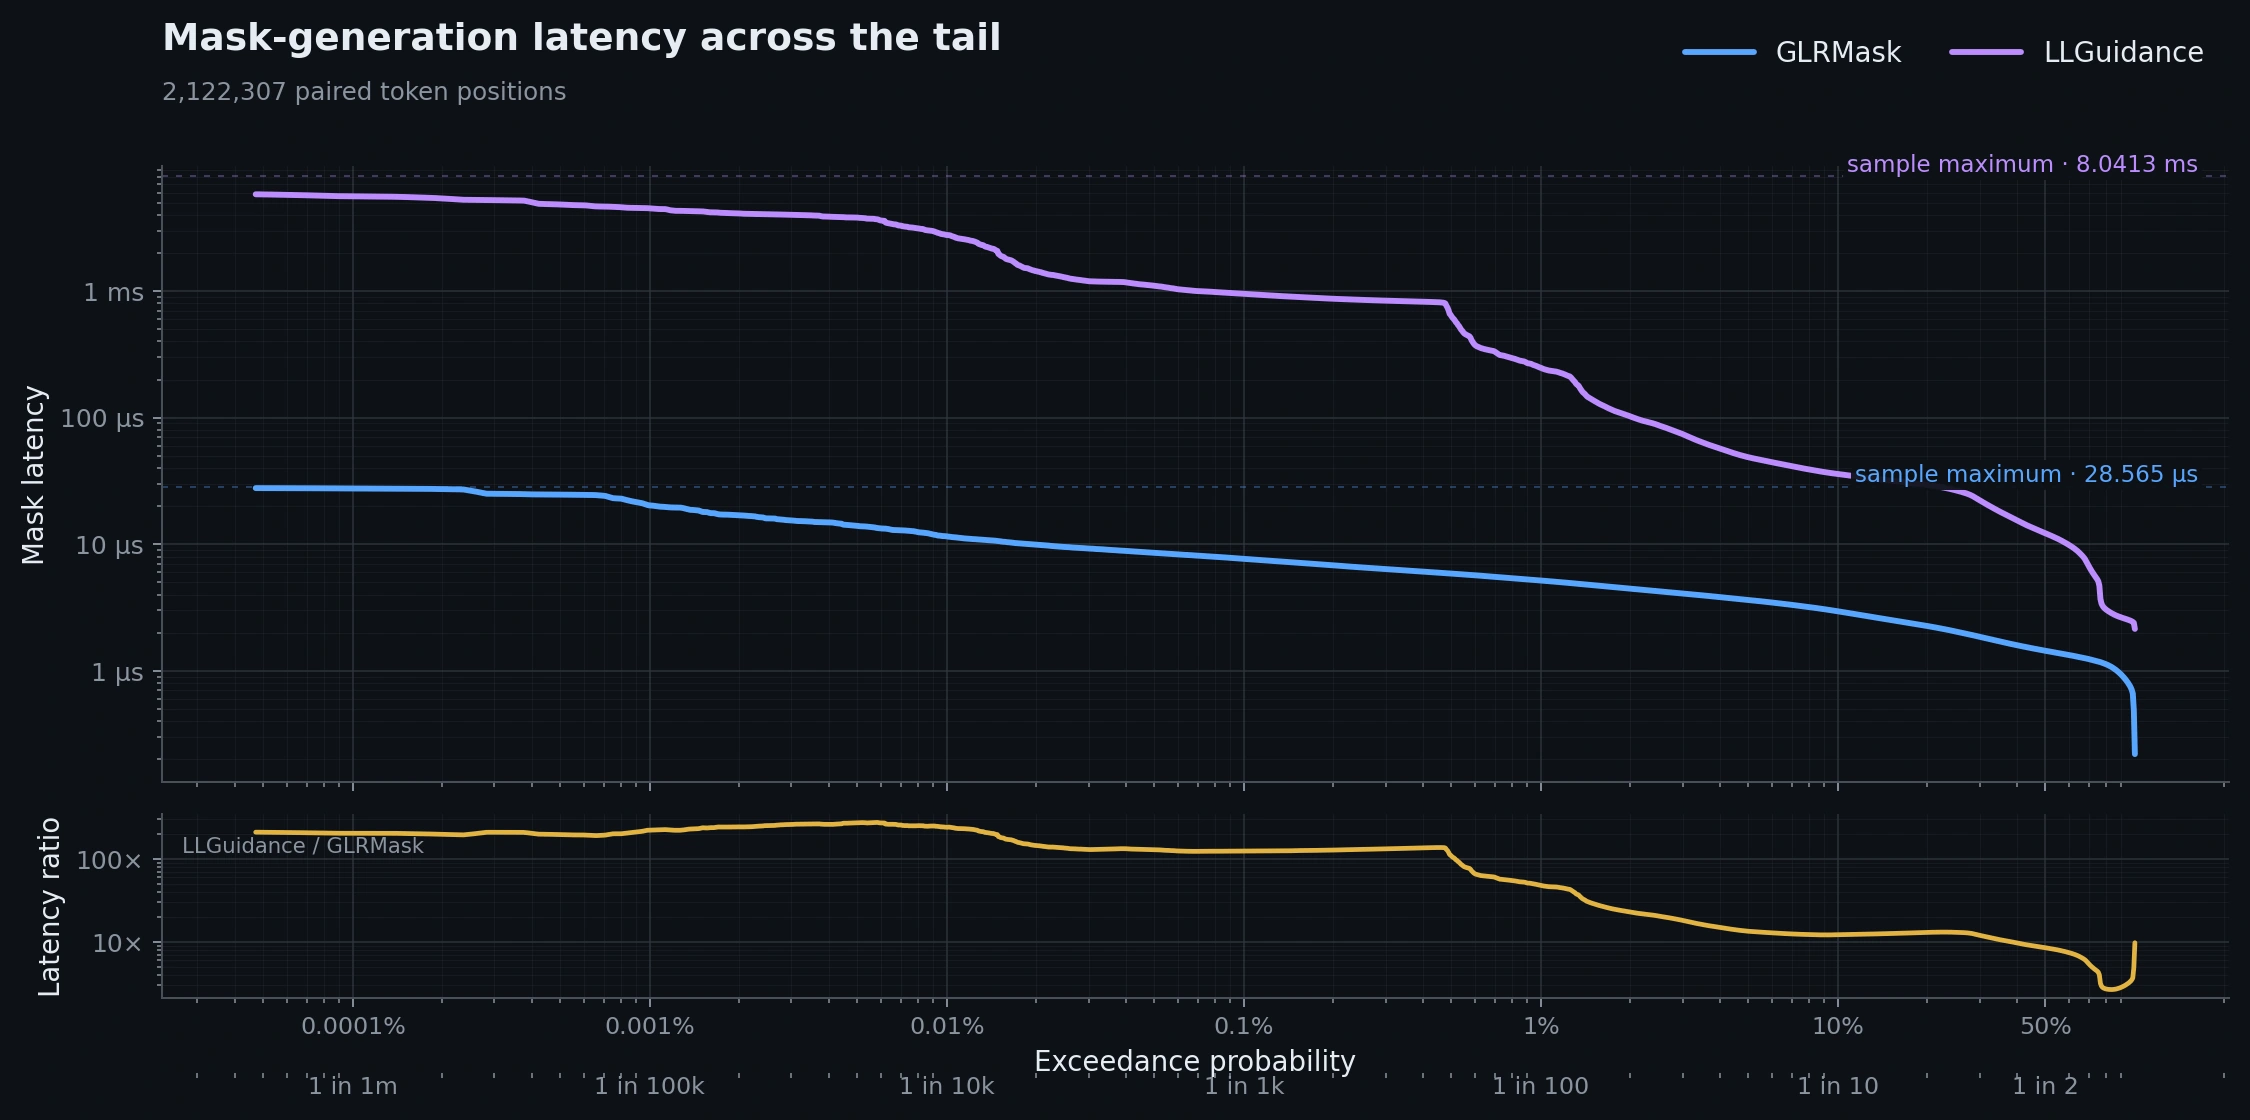
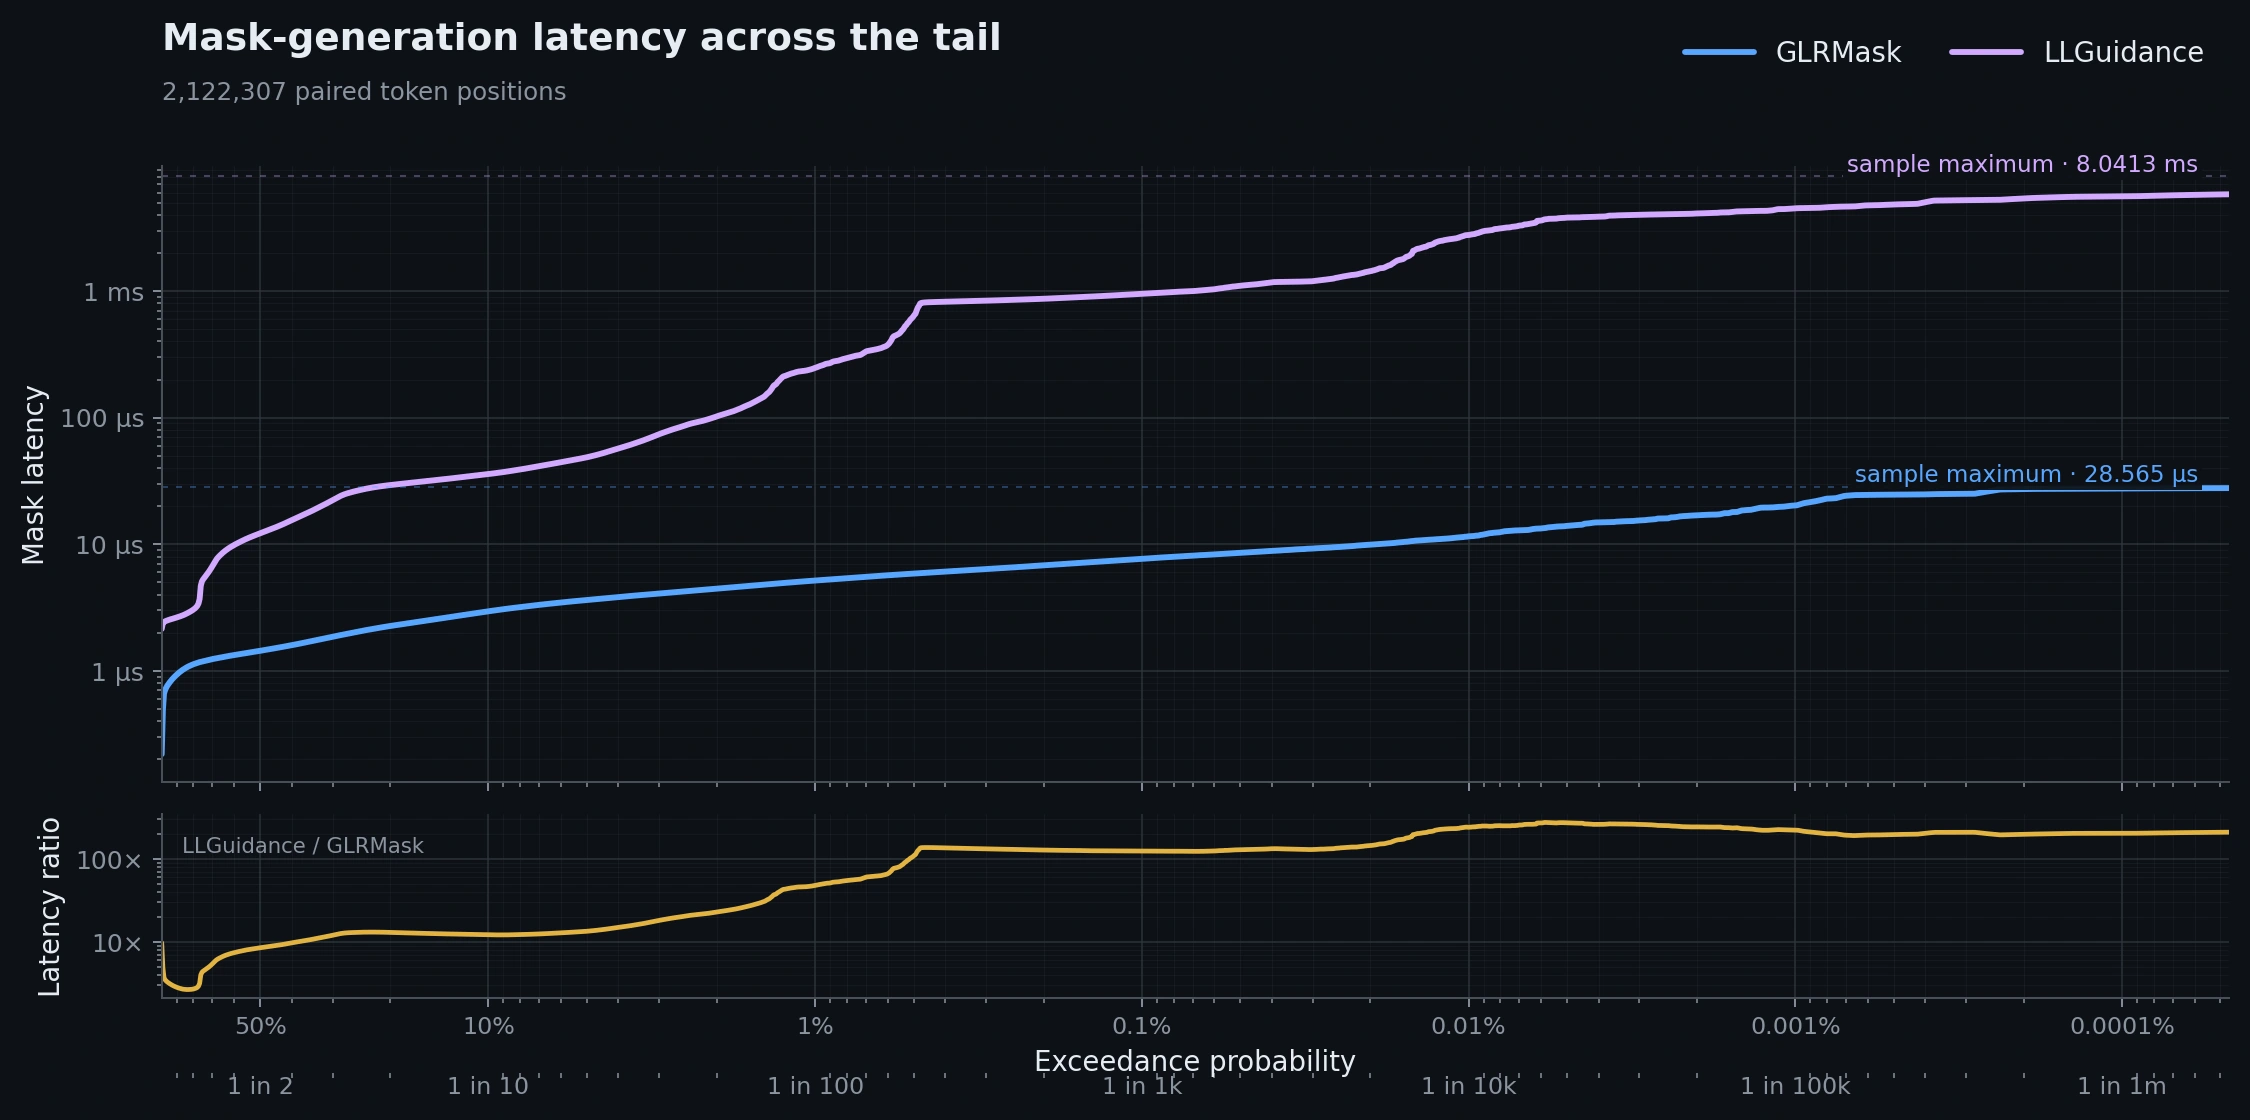
Use CFA-style benchmark plots on README

diff --git a/README.md b/README.md
@@ -14,44 +14,27 @@ Measured with MaskBench on the JSONSchemaBench corpus, using the Llama 3 vocabul
   <picture>
     <source media="(prefers-color-scheme: dark)" srcset="docs/assets/benchmark-mask-tail-2026-07-16-dark.webp">
     <source media="(prefers-color-scheme: light)" srcset="docs/assets/benchmark-mask-tail-2026-07-16.webp">
-    <img src="docs/assets/benchmark-mask-tail-2026-07-16.webp" alt="Mask-generation latency tail curves for GLRMask and LLGuidance, with GLRMask speedup by exceedance probability" width="100%">
+    <img src="docs/assets/benchmark-mask-tail-2026-07-16.webp" alt="Mask-generation latency tail curves for GLRMask and LLGuidance, with higher exceedance probabilities on the left and rarer events on the right" width="100%">
   </picture>
 </p>
 
 <p align="center">
   <picture>
-    <source media="(prefers-color-scheme: dark)" srcset="docs/assets/benchmark-mask-summary-2026-07-16-dark.webp">
-    <source media="(prefers-color-scheme: light)" srcset="docs/assets/benchmark-mask-summary-2026-07-16.webp">
-    <img src="docs/assets/benchmark-mask-summary-2026-07-16.webp" alt="Mask-generation latency percentile summary for GLRMask and LLGuidance" width="88%">
+    <source media="(prefers-color-scheme: dark)" srcset="docs/assets/benchmark-mask-cfa-bars-2026-07-16-dark.webp">
+    <source media="(prefers-color-scheme: light)" srcset="docs/assets/benchmark-mask-cfa-bars-2026-07-16.webp">
+    <img src="docs/assets/benchmark-mask-cfa-bars-2026-07-16.webp" alt="Mask-generation latency percentiles for GLRMask and LLGuidance" width="92%">
   </picture>
 </p>
-
-| Latency | GLRMask | LLGuidance |
-|---|---:|---:|
-| Mean | **1.743 µs** | 24.179 µs |
-| Median | **1.440 µs** | 12.205 µs |
-| p99 | **5.171 µs** | 247.306 µs |
-| p99.9 | **7.673 µs** | 950.700 µs |
-| p99.99 | **11.556 µs** | 2,771.304 µs |
-| Maximum | **28.565 µs** | 8,041.301 µs |
 
 ### Compilation time
 
 <p align="center">
   <picture>
-    <source media="(prefers-color-scheme: dark)" srcset="docs/assets/benchmark-compilation-summary-2026-07-16-dark.webp">
-    <source media="(prefers-color-scheme: light)" srcset="docs/assets/benchmark-compilation-summary-2026-07-16.webp">
-    <img src="docs/assets/benchmark-compilation-summary-2026-07-16.webp" alt="Compilation-time percentile summary for GLRMask and LLGuidance" width="88%">
+    <source media="(prefers-color-scheme: dark)" srcset="docs/assets/benchmark-compilation-cfa-bars-2026-07-16-dark.webp">
+    <source media="(prefers-color-scheme: light)" srcset="docs/assets/benchmark-compilation-cfa-bars-2026-07-16.webp">
+    <img src="docs/assets/benchmark-compilation-cfa-bars-2026-07-16.webp" alt="Compilation-time percentiles for GLRMask and LLGuidance" width="92%">
   </picture>
 </p>
-
-| Compilation time | GLRMask | LLGuidance |
-|---|---:|---:|
-| Mean | 86.698 ms | **1.527 ms** |
-| Median | 50.963 ms | **0.904 ms** |
-| p99 | 565.257 ms | **11.711 ms** |
-| p99.9 | 2,221.152 ms | **42.989 ms** |
-| Maximum | 6,440.287 ms | **239.964 ms** |
 
 See the [full benchmark report](docs/benchmark-full-corpus-2026-07-16.md) for methodology.
 